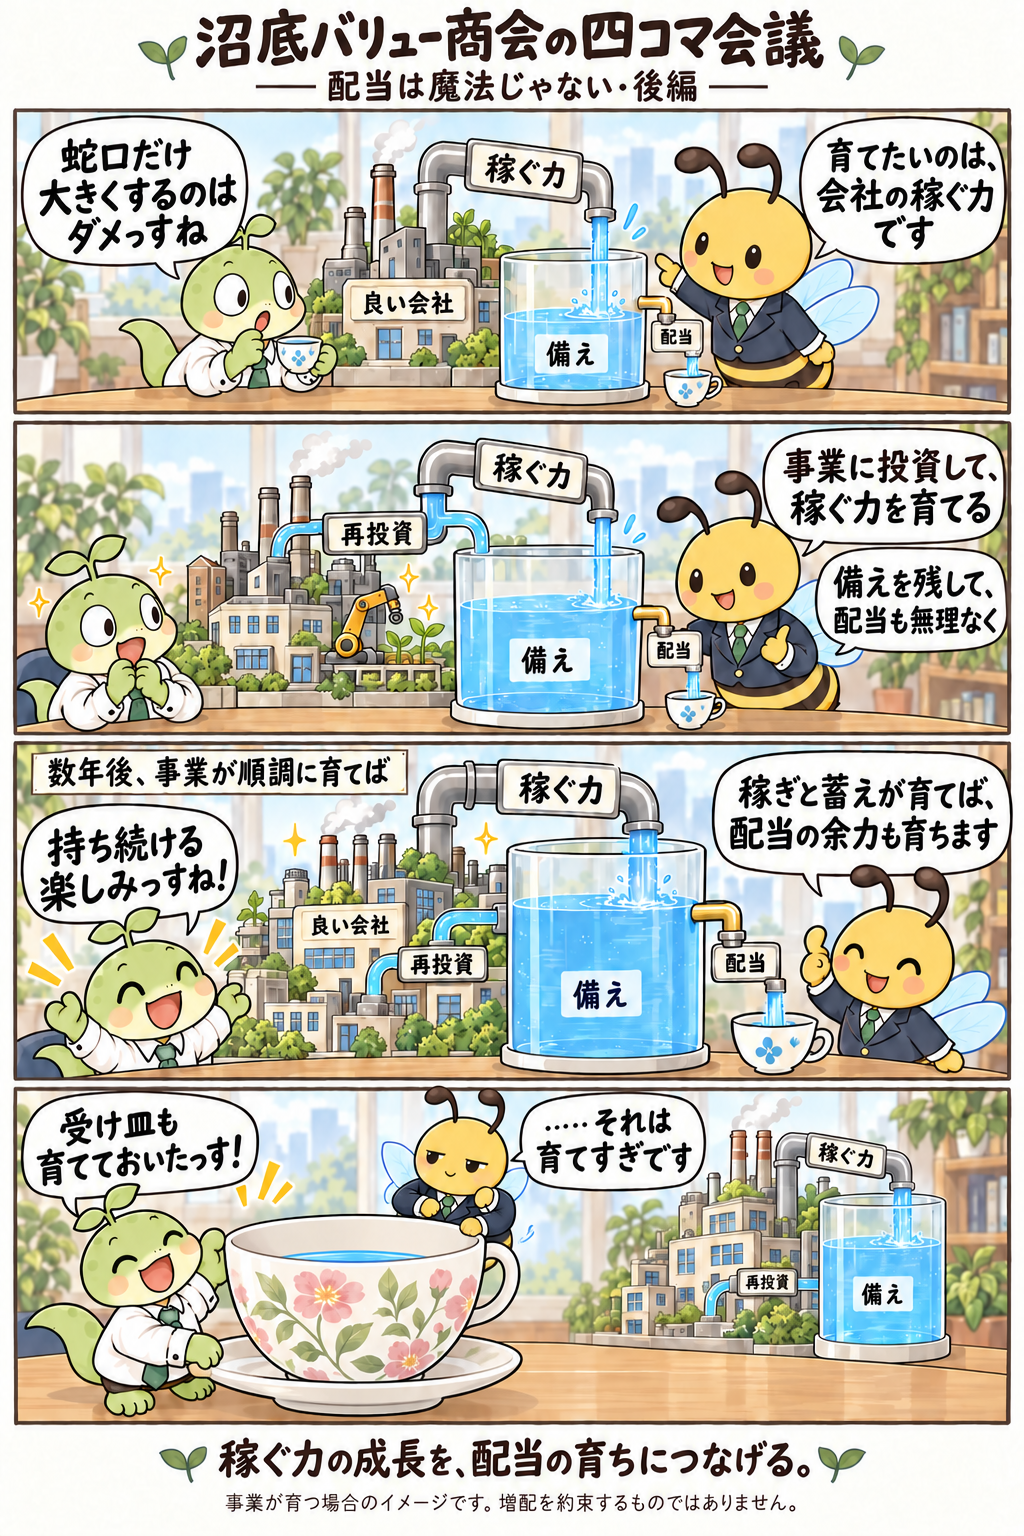
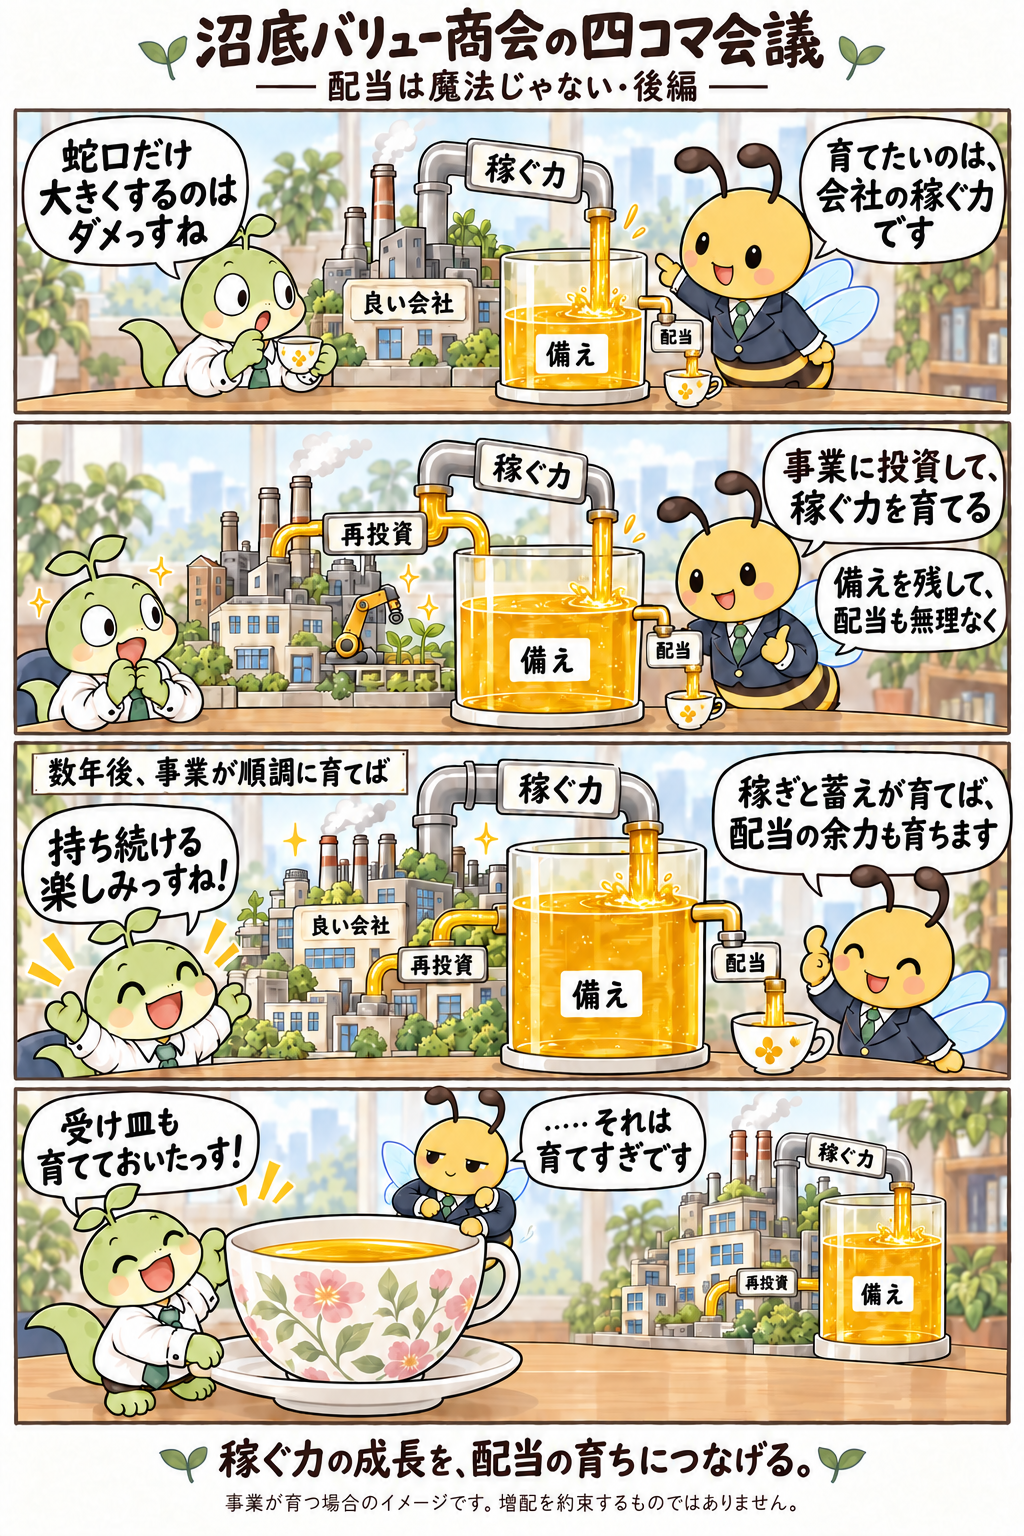
fix: 四コマを修正版(v2)に差し替え、台詞の折りたたみを外す
Codexの `Claude向け_最新修正.md` の指示どおり、本番に残っていた旧版を差し替えた。
待伏は女性。ハッシュ照合で3枚が旧版のまま公開されていた。

- 画像：patience-part1 / patience-part2 / dividend-part2 を v2 へ
  （dividend-part1 は元から最新）
- 絵に合わせて台詞テキストも更新
  2コマ目「決算が出たら読みます」→「決算書を全部見なくても、最低限は押さえましょう」
  3コマ目「僕も3年待ってるっす」→「僕もう3年も待ってるっす」
  締め「会社の変化を確認」→「会社の強みと変化を確認」
  後編1コマ目「まずは強みと〜」→「全部の精読より、まず強みと稼ぎ方、育つ力です」
  場面説明と代替テキストも、蔦・未開封の郵便・立て札の文言に合わせて書き直し
- ユーザー指示により「◯編の台詞をテキストで読む」の折りたたみを全話から削除。
  未使用になったCSSも撤去。絵の説明は img の alt に残している。

diff --git a/src/data/comics.ts b/src/data/comics.ts
@@ -58,38 +58,38 @@ export const comics: ComicSeries[] = [
         label: '前編',
         subtitle: '勘違い',
         image: patience1,
-        alt: '四コマ漫画「待ち伏せと放置」前編。ハンモックで寝ている日向に待伏が何を待っているのか尋ね、3年間決算を読まずに苔に覆われた日向へ「それは放置です」と告げる。',
+        alt: '四コマ漫画「待ち伏せと放置」前編。ハンモックで寝ている日向に待伏が何を待っているのか尋ね、強みと稼ぎ方が崩れていないか最低限の確認を促す。3年間会社の様子を見ていない日向は蔦に覆われ、未開封のIR資料に埋もれて「それは放置です」と告げられる。',
         panels: [
           {
-            scene: '夕方の沼。日向がアイマスクをしてハンモックで寝ている。待伏は水面から顔を出している。',
+            scene: '夕方の沼。日向がアイマスクを額に上げ、ハンモックで寝ている。足元に「GOOD COMPANY LONG TERM」の本とマグカップ。待伏は水面から顔を出している。奥の桟橋に青サギ、立て札「良い会社は きっと花ひらく」。',
             lines: [
               { speaker: '日向', text: '買って寝て待つっす！' },
               { speaker: '待伏', text: '何を待っていますか？' },
             ],
           },
           {
-            scene: '待伏が水中から決算報告書を取り出し、赤ペンを持っている。横に「財務・事業・競争環境・経営戦略・リスク」の資料の束。',
+            scene: '待伏が「強み・稼ぎ方・育つ力」にチェックの入ったクリップボードと赤ペンを持っている。岸には「会社メモ」「業界メモ」の2冊。蓮の葉にカエル。',
             lines: [
-              { speaker: '待伏', text: '決算が出たら読みます' },
-              { speaker: '待伏', text: '待つ理由があるか確認です' },
+              { speaker: '待伏', text: '決算書を全部見なくても、最低限は押さえましょう' },
+              { speaker: '待伏', text: '強みと稼ぎ方は、崩れていませんか？' },
             ],
           },
           {
-            scene: 'ハンモックに苔が生え、蜘蛛の巣が張り始めている。日向は冷や汗をかいている。',
+            scene: 'ハンモックに蔦が絡み、蜘蛛の巣が張っている。日向は冷や汗をかいている。',
             lines: [
-              { speaker: '日向', text: '僕も3年待ってるっす' },
-              { speaker: '待伏', text: '最後に決算を読んだのは？' },
+              { speaker: '日向', text: '僕もう3年も待ってるっす' },
+              { speaker: '待伏', text: '最後に会社の様子を見たのは？' },
             ],
           },
           {
-            scene: '苔まみれの日向の頭に鳥が巣を作り、足元には未開封の株主通信やIR資料が山になっている。待伏の横には付箋だらけの資料が高く積まれている。立て札「待つのは監視することであり 忘れることではない」。',
+            scene: '蔦に覆われた日向の頭上に鳥の巣。足元には「重要」「未開封」「株主通信」「IR資料」の郵便が雪崩になり、立て札「ほったらかしも投資の一種…？」。待伏は手元のメモに「強み・稼ぎ方・育つ力」のチェックを入れ、「定期チェック」「気になること」の本を積んでいる。右の立て札「待つのは監視することであり 忘れることではない」。',
             lines: [
               { speaker: '日向', text: '……買った日っす' },
               { speaker: '待伏', text: 'それは放置です' },
             ],
           },
         ],
-        moral: '待つ間も、会社の変化を確認。',
+        moral: '待つ間も、会社の強みと変化を確認。',
       },
       {
         label: '後編',
@@ -98,10 +98,10 @@ export const comics: ComicSeries[] = [
         alt: '四コマ漫画「待ち伏せと放置」後編。分厚い決算報告書に怯える日向に、待伏が強み・稼ぎ方・育つ力の3点を示し、理由が崩れたらA社とB社を比べ直すと説明する。最後はハンモックを背負って歩き出す日向に待伏がつっこむ。',
         panels: [
           {
-            scene: '机の上に分厚い決算報告書。待伏は「強み・稼ぎ方・育つ力」にチェックを入れたクリップボードを持っている。',
+            scene: '机の上に分厚い決算報告書。棚には「事業」「競争環境」「経営戦略」「財務」の本。待伏は「強み・稼ぎ方・育つ力」にチェックを入れたクリップボードを持っている。立て札「数字は 会社を知る 手がかり」、杭にカワセミ。',
             lines: [
               { speaker: '日向', text: '決算書を全部、精読っすか？' },
-              { speaker: '待伏', text: 'まずは強みと稼ぎ方、育つ力です' },
+              { speaker: '待伏', text: '全部の精読より、まず強みと稼ぎ方、育つ力です' },
             ],
           },
           {
